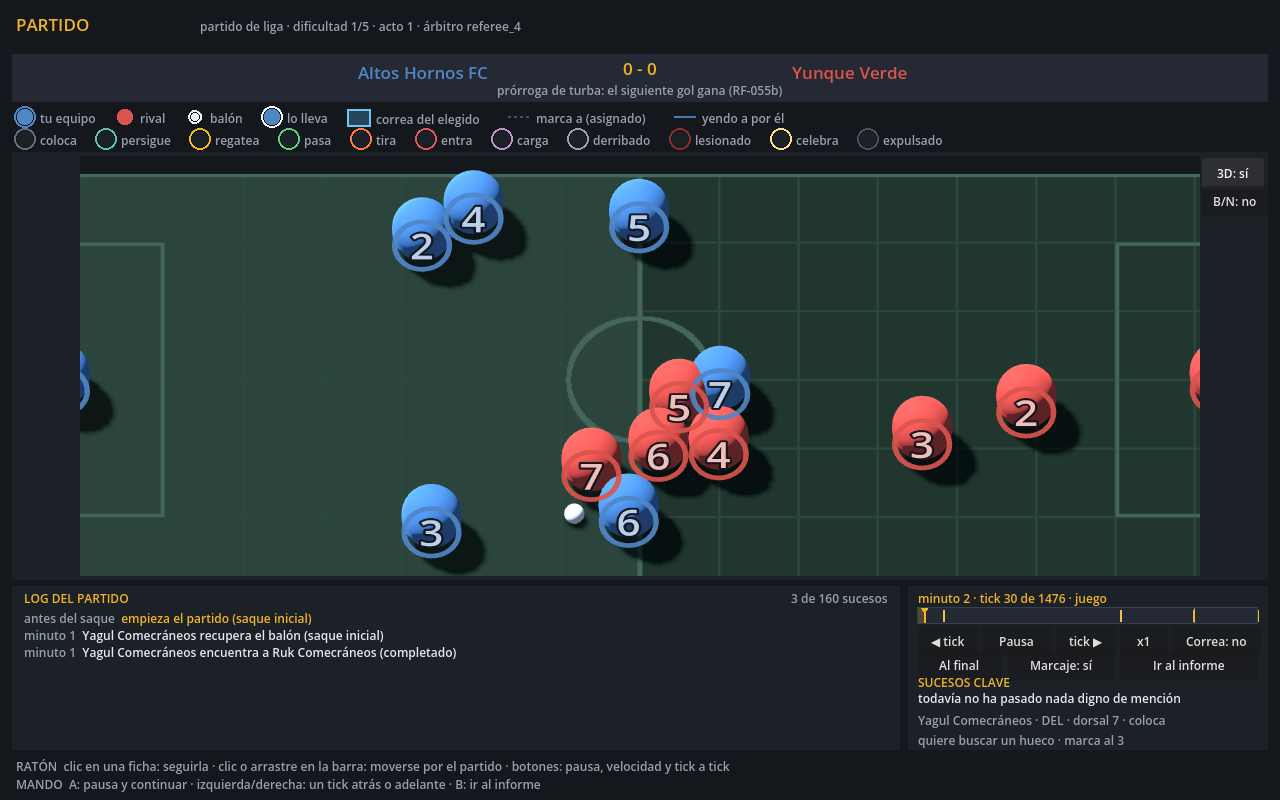
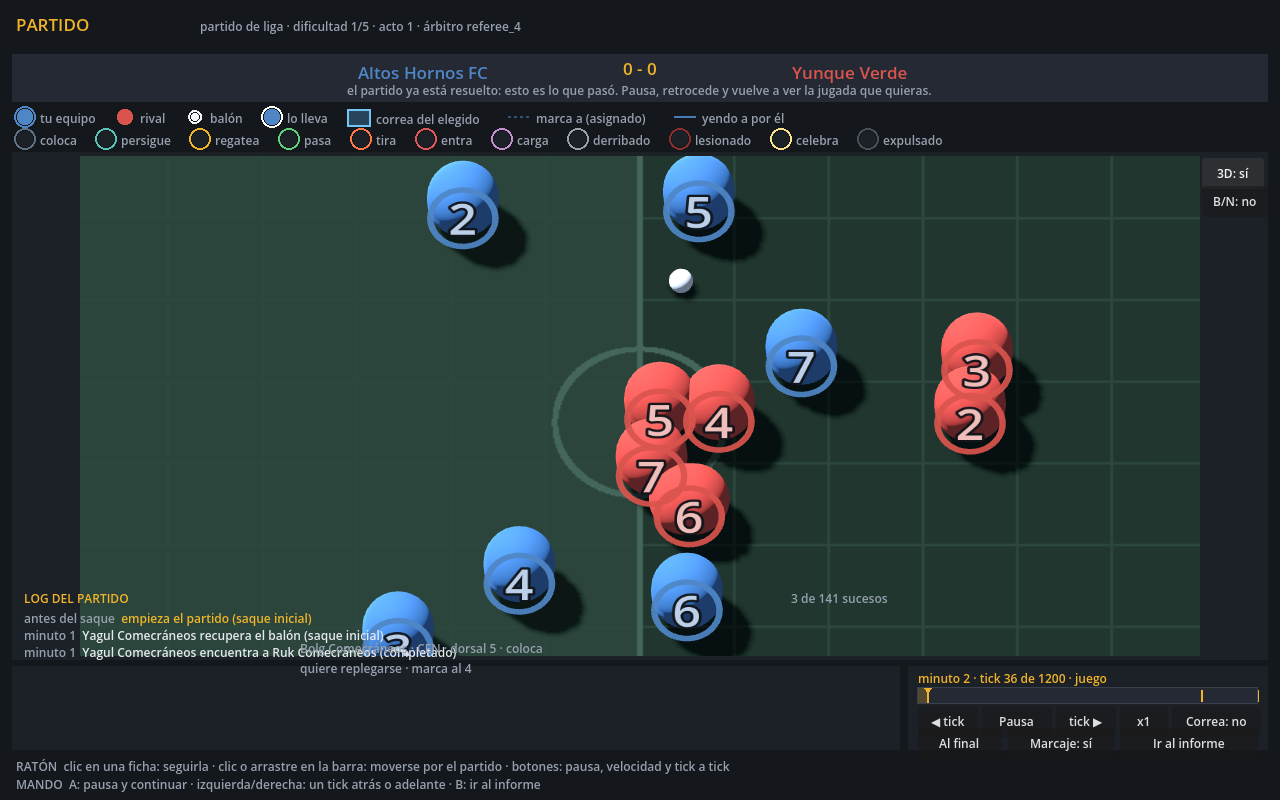
game: la pantalla de partido y la cuadricula de colocacion, a siete filas — BA-C, UI-021
Acompana al salto a 16x7 del commit anterior; va aparte porque un commit no mezcla
/Sim y /Game.

PitchView vuelve a una unica fila central (Pitch.Rows / 2) en vez de las dos que
exigia el numero par, y con ello el carril central que pinta el previsualizador de
perks coincide otra vez con LinkGeometry.FlankOfHome. MatchScreen recoloca el panel
del campo y el registro para la fila extra. MatchPitchView y MatchPitchView3D
actualizan su geometria y su documentacion: el cesped pasa a 16x7 unidades en el
plano XZ.

Capturas regeneradas con la escena res://Scenes/Capturas.tscn.

Claude-Session: https://claude.ai/code/session_01XUXxaJq79QAQgdHbtMrsCn

diff --git a/Game/Screens/MatchScreen.cs b/Game/Screens/MatchScreen.cs
@@ -46,7 +46,6 @@ public partial class MatchScreen : Control
     private Label _scoreboard = null!;
     private Label _state = null!;
     private Label _clock = null!;
-    private Label _highlightList = null!;
     private Label _selected = null!;
     private Label _progress = null!;
     private Button _play = null!;
@@ -205,12 +204,12 @@ public partial class MatchScreen : Control
         // filas piden 420 px de alto para que la casilla sea cuadrada (si no, el jugador no puede estimar
         // distancias a ojo). El panel le añade el mismo margen de 4 px que tenía antes arriba y abajo. Ese
         // alto extra (antes 350, ahora 420: +70 px) sale del panel del log y del de controles, más abajo.
-        Widgets.Panel(this, new Rect2(12f, 152f, 1256f, 428f));
+        Widgets.Panel(this, new Rect2(12f, 152f, 1256f, 508f));
         _pitch = new MatchPitchView
         {
             Trace = _trace,
             Position = new Vector2(80f, 156f),
-            Size = new Vector2(1120f, 420f),
+            Size = new Vector2(1120f, 500f),
         };
         _pitch.PlayerPicked += OnPlayerPicked;
         AddChild(_pitch);
@@ -237,7 +236,7 @@ public partial class MatchScreen : Control
         // El log y el panel de controles bajan y encogen exactamente el alto que ganó el campo (70 px):
         // empezaban en y=516 y medían 234, ahora empiezan en y=586 y miden 164. Dentro, todo se reescala en
         // la misma proporción (164/234 ≈ 0,70) para que ningún botón se quede sin sitio.
-        Widgets.Panel(this, new Rect2(12f, 586f, 888f, 164f));
+        Widgets.Panel(this, new Rect2(12f, 666f, 888f, 84f));
         Widgets.Section(this, UiText.Get("ui.match.log"), new Vector2(24f, 590f), 400f);
         _progress = Widgets.Body(this, string.Empty, new Vector2(600f, 590f), 288f, Style.TextDim);
         _progress.HorizontalAlignment = HorizontalAlignment.Right;
@@ -256,12 +255,12 @@ public partial class MatchScreen : Control
         AddChild(_log);
         FitLog();
 
-        Widgets.Panel(this, new Rect2(908f, 586f, 360f, 164f));
-        _clock = Widgets.Body(this, string.Empty, new Vector2(918f, 590f), 340f, Style.Accent);
+        Widgets.Panel(this, new Rect2(908f, 666f, 360f, 84f));
+        _clock = Widgets.Body(this, string.Empty, new Vector2(918f, 670f), 340f, Style.Accent);
 
         _timeline = new MatchTimelineView
         {
-            Position = new Vector2(918f, 608f),
+            Position = new Vector2(918f, 688f),
             Size = new Vector2(340f, 16f),
             FrameCount = _trace?.FrameCount ?? 0,
             Marks = BuildMarks(),
@@ -270,21 +269,21 @@ public partial class MatchScreen : Control
         _timeline.Seeked += OnSeeked;
         AddChild(_timeline);
 
-        Widgets.Button(this, UiText.Get("ui.match.stepBack"), new Rect2(918f, 626f, 60f, 20f)).Pressed += () => Step(-1);
+        Widgets.Button(this, UiText.Get("ui.match.stepBack"), new Rect2(918f, 706f, 60f, 22f)).Pressed += () => Step(-1);
 
-        _play = Widgets.Button(this, UiText.Get("ui.match.pause"), new Rect2(982f, 626f, 70f, 20f));
+        _play = Widgets.Button(this, UiText.Get("ui.match.pause"), new Rect2(982f, 706f, 70f, 22f));
         _play.Pressed += TogglePlay;
 
-        Widgets.Button(this, UiText.Get("ui.match.stepForward"), new Rect2(1056f, 626f, 60f, 20f)).Pressed += () => Step(1);
+        Widgets.Button(this, UiText.Get("ui.match.stepForward"), new Rect2(1056f, 706f, 60f, 22f)).Pressed += () => Step(1);
 
-        _speed = Widgets.Button(this, "x" + Speeds[0].ToString(CultureInfo.InvariantCulture), new Rect2(1120f, 626f, 48f, 20f));
+        _speed = Widgets.Button(this, "x" + Speeds[0].ToString(CultureInfo.InvariantCulture), new Rect2(1120f, 706f, 48f, 22f));
         _speed.Pressed += () =>
         {
             _speedIndex = (_speedIndex + 1) % Speeds.Length;
             _speed.Text = "x" + Speeds[_speedIndex].ToString(CultureInfo.InvariantCulture);
         };
 
-        _zone = Widgets.Button(this, UiText.Get("ui.match.zoneOff"), new Rect2(1172f, 626f, 86f, 20f));
+        _zone = Widgets.Button(this, UiText.Get("ui.match.zoneOff"), new Rect2(1172f, 706f, 86f, 22f));
         _zone.Pressed += () =>
         {
             _pitch.ShowZone = !_pitch.ShowZone;
@@ -292,9 +291,9 @@ public partial class MatchScreen : Control
             _pitch.QueueRedraw();
         };
 
-        Widgets.Button(this, UiText.Get("ui.match.end"), new Rect2(918f, 650f, 84f, 20f)).Pressed += GoToEnd;
+        Widgets.Button(this, UiText.Get("ui.match.end"), new Rect2(918f, 728f, 84f, 22f)).Pressed += GoToEnd;
 
-        _marking = Widgets.Button(this, UiText.Get("ui.match.markOn"), new Rect2(1008f, 650f, 106f, 20f));
+        _marking = Widgets.Button(this, UiText.Get("ui.match.markOn"), new Rect2(1008f, 728f, 106f, 22f));
         _marking.Pressed += () =>
         {
             _pitch.ShowMarking = !_pitch.ShowMarking;
@@ -302,7 +301,7 @@ public partial class MatchScreen : Control
             _pitch.QueueRedraw();
         };
 
-        Widgets.Button(this, UiText.Get("ui.match.report"), new Rect2(1120f, 650f, 138f, 20f)).Pressed += GoToReport;
+        Widgets.Button(this, UiText.Get("ui.match.report"), new Rect2(1120f, 728f, 138f, 22f)).Pressed += GoToReport;
 
         // UN suceso clave. Eran cuatro, luego tres, y baja a uno con el campo de seis filas (ADR 0103):
         // el panel de controles perdió 70 px de alto para dárselos al campo, y un suceso clave largo se
@@ -312,9 +311,11 @@ public partial class MatchScreen : Control
         // líneas, 34) = 746, contra un borde inferior de 750. Las dos líneas del jugador seguido son las que cambian con cada clic, así que son las que
         // no pueden perderse; el resto de sucesos está a un vistazo en el log de al lado y en las marcas
         // de la barra.
-        Widgets.Section(this, UiText.Get("ui.match.highlights"), new Vector2(918f, 674f), 340f);
-        _highlightList = Widgets.Body(this, UiText.Get("ui.match.highlightsNone"), new Vector2(918f, 690f), 340f);
-        _selected = Widgets.Body(this, UiText.Get("ui.match.selectHint"), new Vector2(918f, 712f), 340f, Style.TextDim);
+        // ADR 0109: con siete filas el campo pide 500 px de alto y el panel de controles baja a 84.
+        // El bloque de SUCESOS CLAVE sale de aquí: ya estaba reducido a uno (ADR 0103) y el log, que
+        // ocupa los 888 px de al lado, enseña lo mismo y más. La línea del jugador seguido —que es la
+        // que cambia con cada clic y por tanto la que no se puede perder— se muda a la cabecera del log.
+        _selected = Widgets.Body(this, UiText.Get("ui.match.selectHint"), new Vector2(300f, 640f), 596f, Style.TextDim);
 
         Widgets.InputHelp(this, UiText.Get("ui.input.mouseMatch"), UiText.Get("ui.input.padMatch"));
 
@@ -568,8 +569,6 @@ public partial class MatchScreen : Control
         int goalsAgainst = _revealed > 0 ? _lines[_revealed - 1].GoalsAgainst : 0;
         _scoreboard.Text = goalsFor.ToString(CultureInfo.InvariantCulture) + " - " + goalsAgainst.ToString(CultureInfo.InvariantCulture);
         _progress.Text = UiText.Get("ui.match.progress", _revealed, _lines.Count);
-
-        SyncHighlights();
         SyncSelected(trace);
         SyncState();
     }
@@ -631,35 +630,7 @@ public partial class MatchScreen : Control
         _log.AppendText($"[color=#{color.ToHtml(false)}]{Escape(Sentence(line))}[/color]\n");
     }
 
-    /// <summary>Los últimos sucesos que no se pueden perder de vista; la barra dice además dónde están.</summary>
-    private void SyncHighlights()
-    {
-        var recent = new List<string>();
-        for (int i = _revealed - 1; i >= 0 && recent.Count < 1; i--)
-        {
-            if (_lines[i].Highlight)
-            {
-                recent.Insert(0, OneLine(UiText.Get("ui.match.minute", _lines[i].Minute) + "  " + Sentence(_lines[i])));
-            }
-        }
 
-        _highlightList.Text = recent.Count == 0
-            ? UiText.Get("ui.match.highlightsNone")
-            : string.Join("\n", recent);
-    }
-
-    /// <summary>
-    /// Recorta un suceso clave a UNA línea. El panel de controles perdió 70 px al darle alto al campo
-    /// (ADR 0103) y el bloque de sucesos vive entre el último botón y el borde: si un suceso se parte en
-    /// dos, el bloque crece y se come las dos líneas del jugador seguido, que son las que cambian con cada
-    /// clic. Con alto previsible —dos sucesos de una línea— el bloque cabe exacto. El suceso completo
-    /// sigue estando en el log, que es donde se lee entero.
-    /// </summary>
-    private static string OneLine(string text) =>
-        text.Length <= HighlightMaxChars ? text : text[..(HighlightMaxChars - 1)].TrimEnd() + "…";
-
-    /// <summary>Caracteres que caben en los 340 px del panel a tamaño de cuerpo, medido sobre la captura.</summary>
-    private const int HighlightMaxChars = 46;
 
     private void SyncSelected(MatchTrace trace)
     {

diff --git a/Game/Ui/PitchView.cs b/Game/Ui/PitchView.cs
@@ -7,7 +7,7 @@ using Underleague.Sim.Placement;
 namespace Underleague.Game.Ui;
 
 /// <summary>
-/// Cuadrícula de colocación de 16x6 (RF-040, ADR 0103) con la mitad propia utilizable (RF-041), la zona de acción
+/// Cuadrícula de colocación de 16x7 (RF-040, ADR 0103, campo de siete filas) con la mitad propia utilizable (RF-041), la zona de acción
 /// del jugador manipulado (RF-045, ADR 0029), los vínculos direccionales (RF-044, RF-106) y el modo de
 /// cobertura del equipo (ADR 0029 §4).
 /// <para>
@@ -293,16 +293,16 @@ public partial class PitchView : Control
 
     /// <summary>
     /// Rectángulo de una banda de inicio sobre la mitad propia. Las bandas parten filas, no columnas: con
-    /// Rows par (6, ADR 0103) el centro son <b>dos</b> filas (la 2 y la 3, igual que <c>FlankOfHome</c> en
-    /// <c>Sim.Perks.LinkGeometry</c>) y las otras dos bandas son <b>todas</b> las que quedan a cada lado,
-    /// que es justo lo que el texto del perk no dejaba claro (AW-F).
+    /// Rows impar (7, sucesora de la ADR 0103) vuelve a haber una única fila central
+    /// (<c>Pitch.Rows / 2</c>, igual que <c>FlankOfHome</c> en <c>Sim.Perks.LinkGeometry</c>) y las otras
+    /// dos bandas son <b>todas</b> las que quedan a cada lado, que es justo lo que el texto del perk no
+    /// dejaba claro (AW-F).
     /// </summary>
     private static Rect2 FlankRect(int flank, float cell)
     {
-        int centerHigh = Pitch.Rows / 2;
-        int centerLow = centerHigh - 1;
-        int first = flank switch { 0 => 0, 1 => centerLow, _ => centerHigh + 1 };
-        int last = flank switch { 0 => centerLow - 1, 1 => centerHigh, _ => Pitch.Rows - 1 };
+        int center = Pitch.Rows / 2;
+        int first = flank switch { 0 => 0, 1 => center, _ => center + 1 };
+        int last = flank switch { 0 => center - 1, 1 => center, _ => Pitch.Rows - 1 };
         return new Rect2(0f, first * cell, cell * Pitch.PlacementColumns, (last - first + 1) * cell);
     }
 
@@ -401,14 +401,13 @@ public partial class PitchView : Control
             }
         }
 
-        // Las bandas parten las filas, no las columnas: con Rows par (6, ADR 0103) el carril central son
-        // las filas 2 y 3, y las otras dos son las bandas. Se marcan con línea punteada para no
-        // confundirlas con los cortes de tercio.
-        int centerHigh = Pitch.Rows / 2;
-        int centerLow = centerHigh - 1;
+        // Las bandas parten las filas, no las columnas: con Rows impar (7) el carril central vuelve a ser
+        // UNA sola fila (Pitch.Rows / 2) y las otras dos son las bandas. Se marcan con línea punteada para
+        // no confundirlas con los cortes de tercio.
+        int center = Pitch.Rows / 2;
         float own = cell * Pitch.PlacementColumns;
-        Style.DrawDashed(this, new Vector2(0f, centerLow * cell), new Vector2(own, centerLow * cell), Style.ZoneDivider, 2f);
-        Style.DrawDashed(this, new Vector2(0f, (centerHigh + 1) * cell), new Vector2(own, (centerHigh + 1) * cell), Style.ZoneDivider, 2f);
+        Style.DrawDashed(this, new Vector2(0f, center * cell), new Vector2(own, center * cell), Style.ZoneDivider, 2f);
+        Style.DrawDashed(this, new Vector2(0f, (center + 1) * cell), new Vector2(own, (center + 1) * cell), Style.ZoneDivider, 2f);
     }
 
     /// <summary>

diff --git a/Game/Ui/MatchPitchView3D.cs b/Game/Ui/MatchPitchView3D.cs
@@ -22,7 +22,7 @@ namespace Underleague.Game.Ui;
 /// </para>
 ///
 /// <para>
-/// <b>Escala: 1 casilla = 1 unidad de mundo.</b> El campo son 16x6 unidades en el plano XZ (ADR 0103): la columna del
+/// <b>Escala: 1 casilla = 1 unidad de mundo.</b> El campo son 16x7 unidades en el plano XZ (sucesora de la ADR 0103): la columna del
 /// campo es X y la fila es Z, así que con la cámara al lado +Z el campo sale con la misma orientación que
 /// en 2D (columna 0 a la izquierda, fila 0 arriba).
 /// </para>
@@ -357,7 +357,7 @@ public partial class MatchPitchView3D : SubViewportContainer
     };
 
     /// <summary>
-    /// El césped: un cuadrilátero de 16x6 en el plano XZ (ADR 0103) con los vértices y las UV puestos a mano. Se
+    /// El césped: un cuadrilátero de 16x7 en el plano XZ (sucesora de la ADR 0103) con los vértices y las UV puestos a mano. Se
     /// construye así y no con un <c>PlaneMesh</c> para que no haya ninguna duda sobre en qué esquina de la
     /// textura cae la casilla (0,0): la columna es X, la fila es Z y la textura se lee igual que la imagen.
     /// </summary>

diff --git a/Game/Ui/MatchPitchView.cs b/Game/Ui/MatchPitchView.cs
@@ -7,7 +7,7 @@ namespace Underleague.Game.Ui;
 /// <summary>
 /// Campo del <b>partido en curso</b>: las 20 fichas y el balón en las posiciones continuas que grabó la
 /// <see cref="MatchTrace"/> de <c>/Sim</c>, tick a tick. Es la hermana de <see cref="PitchView"/> —comparte
-/// geometría (16x6, RF-056, ADR 0103) y paleta (<see cref="Style"/>)— pero pinta cosas distintas: allí hay casillas
+/// geometría (16x7, RF-056, ADR 0103, campo de siete filas) y paleta (<see cref="Style"/>)— pero pinta cosas distintas: allí hay casillas
 /// de colocación, aquí hay coordenadas continuas y una máquina de estados por jugador.
 ///
 /// <para>
